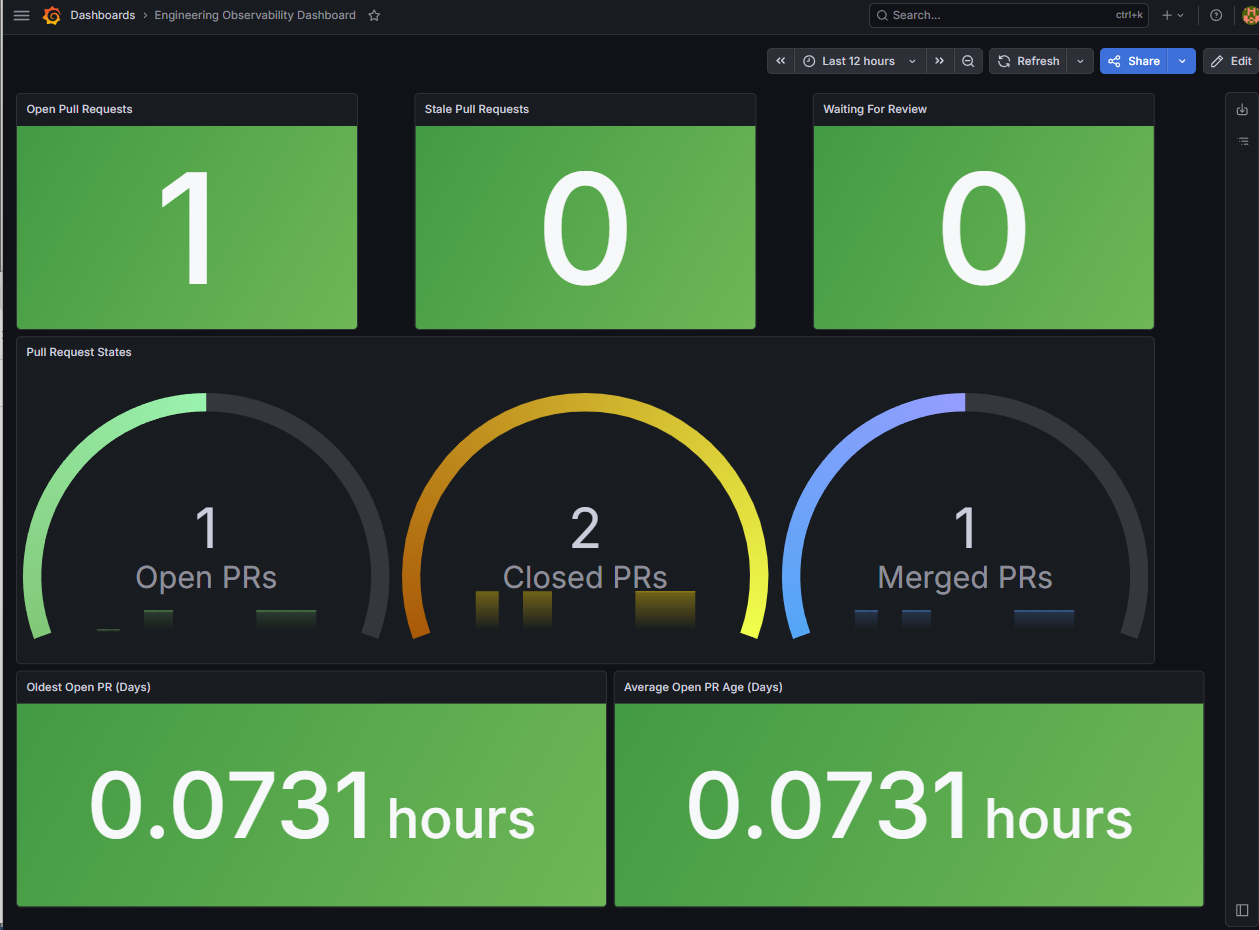
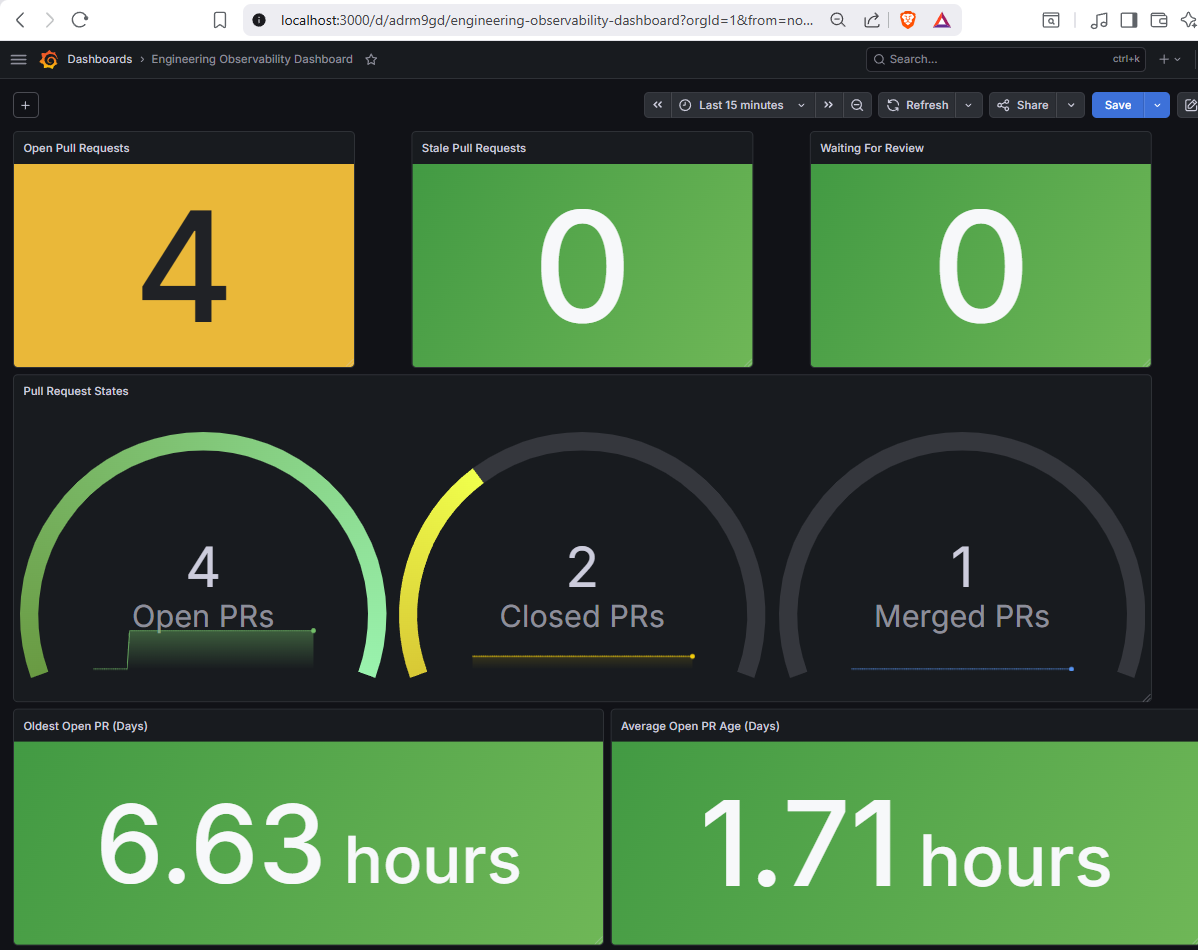
Document milestone 4 Grafana dashboard

diff --git a/JOURNEY.md b/JOURNEY.md
@@ -332,3 +332,98 @@ Resolution:
 ### Status
 
 Milestone 3 Complete ✅
+
+---
+
+# 2026-06-03
+
+## Milestone 4 – Grafana Dashboard
+
+### Objective
+
+Visualise GitHub engineering metrics collected through the exporter and Prometheus using Grafana.
+
+### What Was Completed
+
+#### Grafana
+
+- Added Grafana to Docker Compose
+- Connected Grafana to Prometheus
+- Configured Prometheus as a data source
+
+#### Dashboard
+
+Created the first Engineering Observability Dashboard.
+
+Current dashboard metrics:
+
+- Open Pull Requests
+- Closed Pull Requests
+- Merged Pull Requests
+- Stale Pull Requests
+- Waiting For Review
+- Oldest Open PR Age
+- Average Open PR Age
+
+### Architecture
+
+The project now supports the following flow:
+
+```text
+GitHub GraphQL API
+        ↓
+Go Exporter
+        ↓
+Prometheus
+        ↓
+Grafana
+```
+
+### Verification
+
+Verified:
+
+- Grafana startup
+- Prometheus connectivity
+- Metric visualisation
+- Threshold-based status indicators
+
+Screenshot: [docs/screenshots/milestone-4/grafana-dashboard-overview.png](docs/screenshots/milestone-4/grafana-dashboard-overview.png)
+
+### Challenges Encountered
+
+#### Grafana Thresholds
+
+Threshold values were configured correctly but panel colours were not changing.
+
+Cause:
+
+The panel colour scheme was not configured to use threshold colours.
+
+Resolution:
+
+Set:
+
+```text
+Color Scheme = From thresholds
+```
+
+This allowed dashboard panels to correctly display green, yellow and red states.
+
+### Lessons Learned
+
+- Grafana thresholds and colour schemes are configured independently.
+- KPI-style Stat panels are often more useful than complex visualisations.
+- Prometheus labels should be carefully considered to avoid excessive metric cardinality.
+- Engineering observability metrics are more useful when they highlight flow bottlenecks rather than simple activity counts.
+
+### Next Milestone
+
+- Time to first review
+- Average time to merge
+- Review turnaround metrics
+- Engineering flow analytics
+
+### Status
+
+Milestone 4 Complete ✅

diff --git a/README.md b/README.md
@@ -69,17 +69,17 @@ Completed:
 - Prometheus metric scraping
 - End-to-end observability pipeline
 
+### Milestone 4 – Grafana Dashboard Complete ✅
+
+Completed:
+
+- Grafana integration
+- Prometheus datasource configuration
+- Engineering observability dashboard
+- Dashboard thresholds and KPI visualisation
+- Pull request flow metrics visualisation
+
 ## Current Architecture
-
-```text
-GitHub GraphQL API
-        ↓
-Go Exporter
-        ↓
-Prometheus
-```
-
-## Target Architecture
 
 ```text
 GitHub GraphQL API
@@ -89,6 +89,20 @@ Go Exporter
 Prometheus
         ↓
 Grafana
+```
+
+## Next Target Architecture
+
+```text
+GitHub GraphQL API
+        ↓
+Go Exporter
+        ↓
+Prometheus
+        ↓
+Grafana
+        ↓
+Engineering Flow Analytics
 ```
 
 ## Current Functionality
@@ -109,10 +123,11 @@ github_pull_requests{owner="mike-rae",repo="engineering-observability-dashboard"
 ```
 
 The project does not yet provide:
-* Grafana dashboards
-* Engineering flow visualisations
-* Multi-repository support
-* Historical trend analysis
+- Multi-repository support
+- Historical trend analysis
+- Time-to-review metrics
+- Time-to-merge metrics
+- Review turnaround metrics
 
 ---
 
@@ -227,29 +242,27 @@ Screenshot: [docs/screenshots/milestone-3/prometheus-target-up.png](docs/screens
 
 Screenshot: [docs/screenshots/milestone-3/prometheus-github-pull-requests-query.png](docs/screenshots/milestone-3/prometheus-github-pull-requests-query.png)
 
+### Milestone 4 – Engineering Observability Dashboard
+
+Screenshot: [docs/screenshots/milestone-4/grafana-dashboard-overview.png](docs/screenshots/milestone-4/grafana-dashboard-overview.png)
+
 ---
 
 ## Roadmap
 
-### Milestone 4
-
-- Grafana integration
-- Dashboard provisioning
-- First engineering observability dashboard
-- Pull request visualisation
-
 ### Milestone 5
 
-- Additional engineering flow metrics
-- Pull request age analysis
-- Review activity metrics
-- Throughput metrics
+- Time to first review
+- Average time to merge
+- Review turnaround metrics
+- Review backlog metrics
 
 ### Milestone 6
 
 - Multi-repository support
 - Historical trend analysis
 - Dashboard improvements
+- Team-level aggregation
 
 ## Project Journey
 